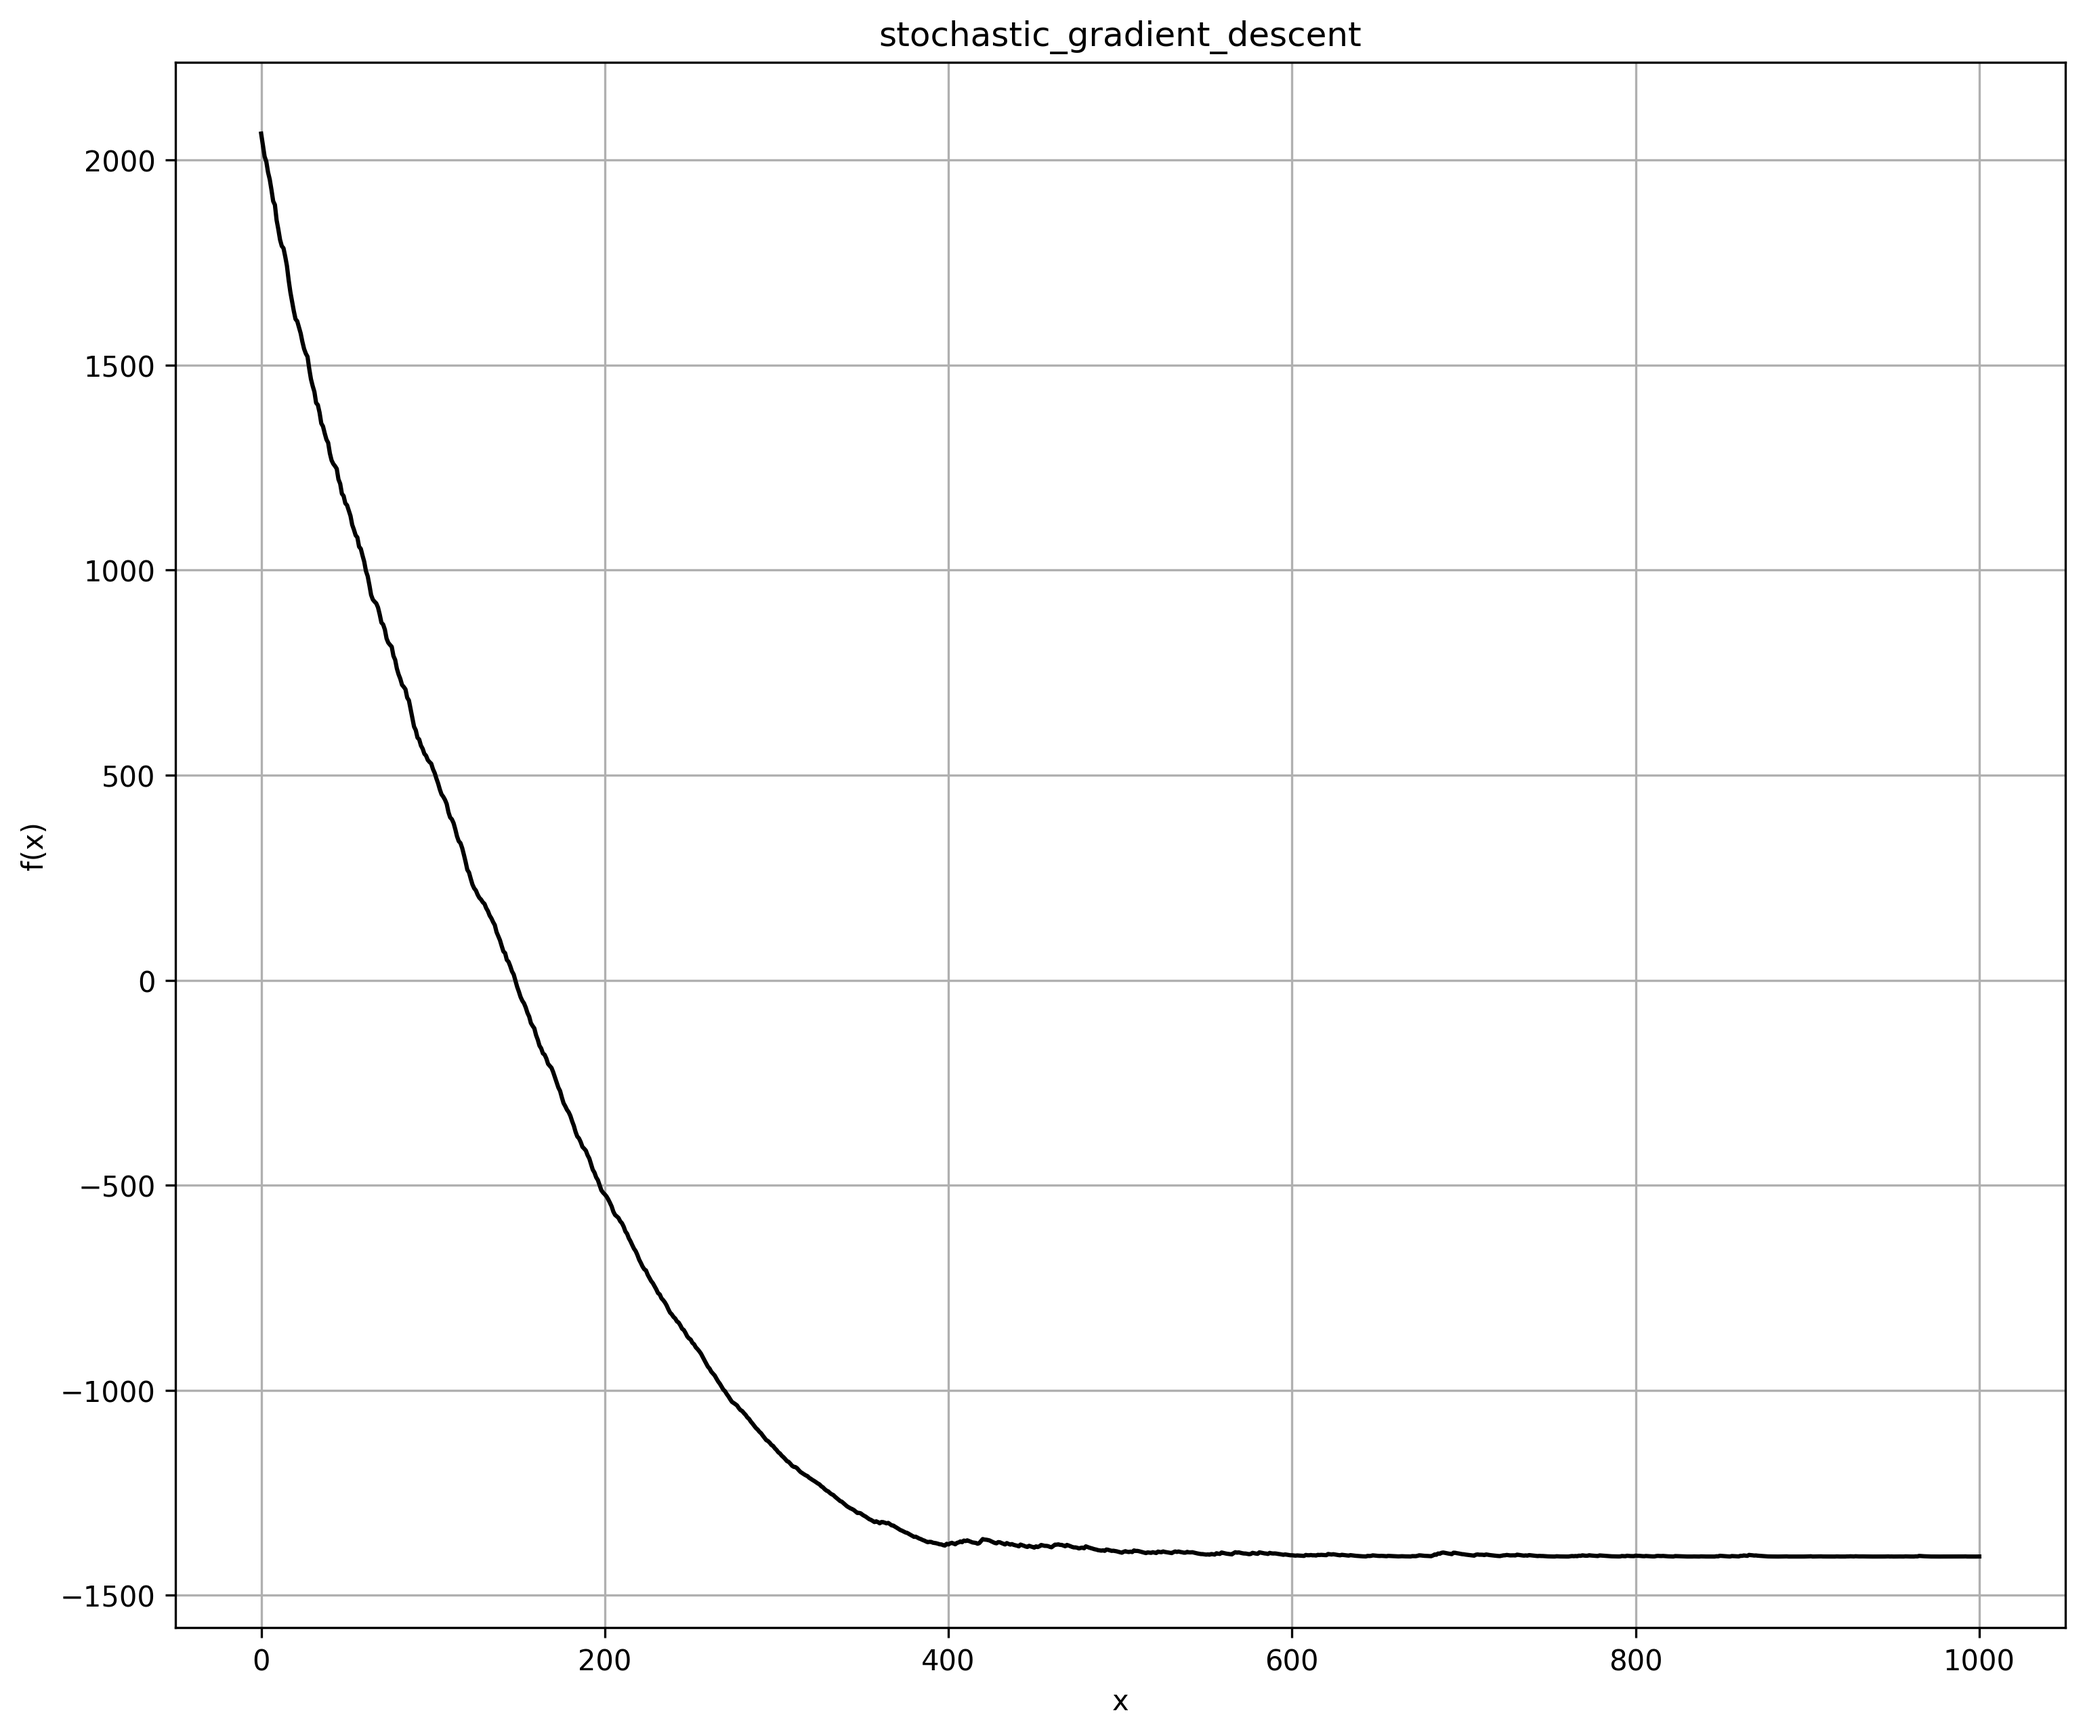
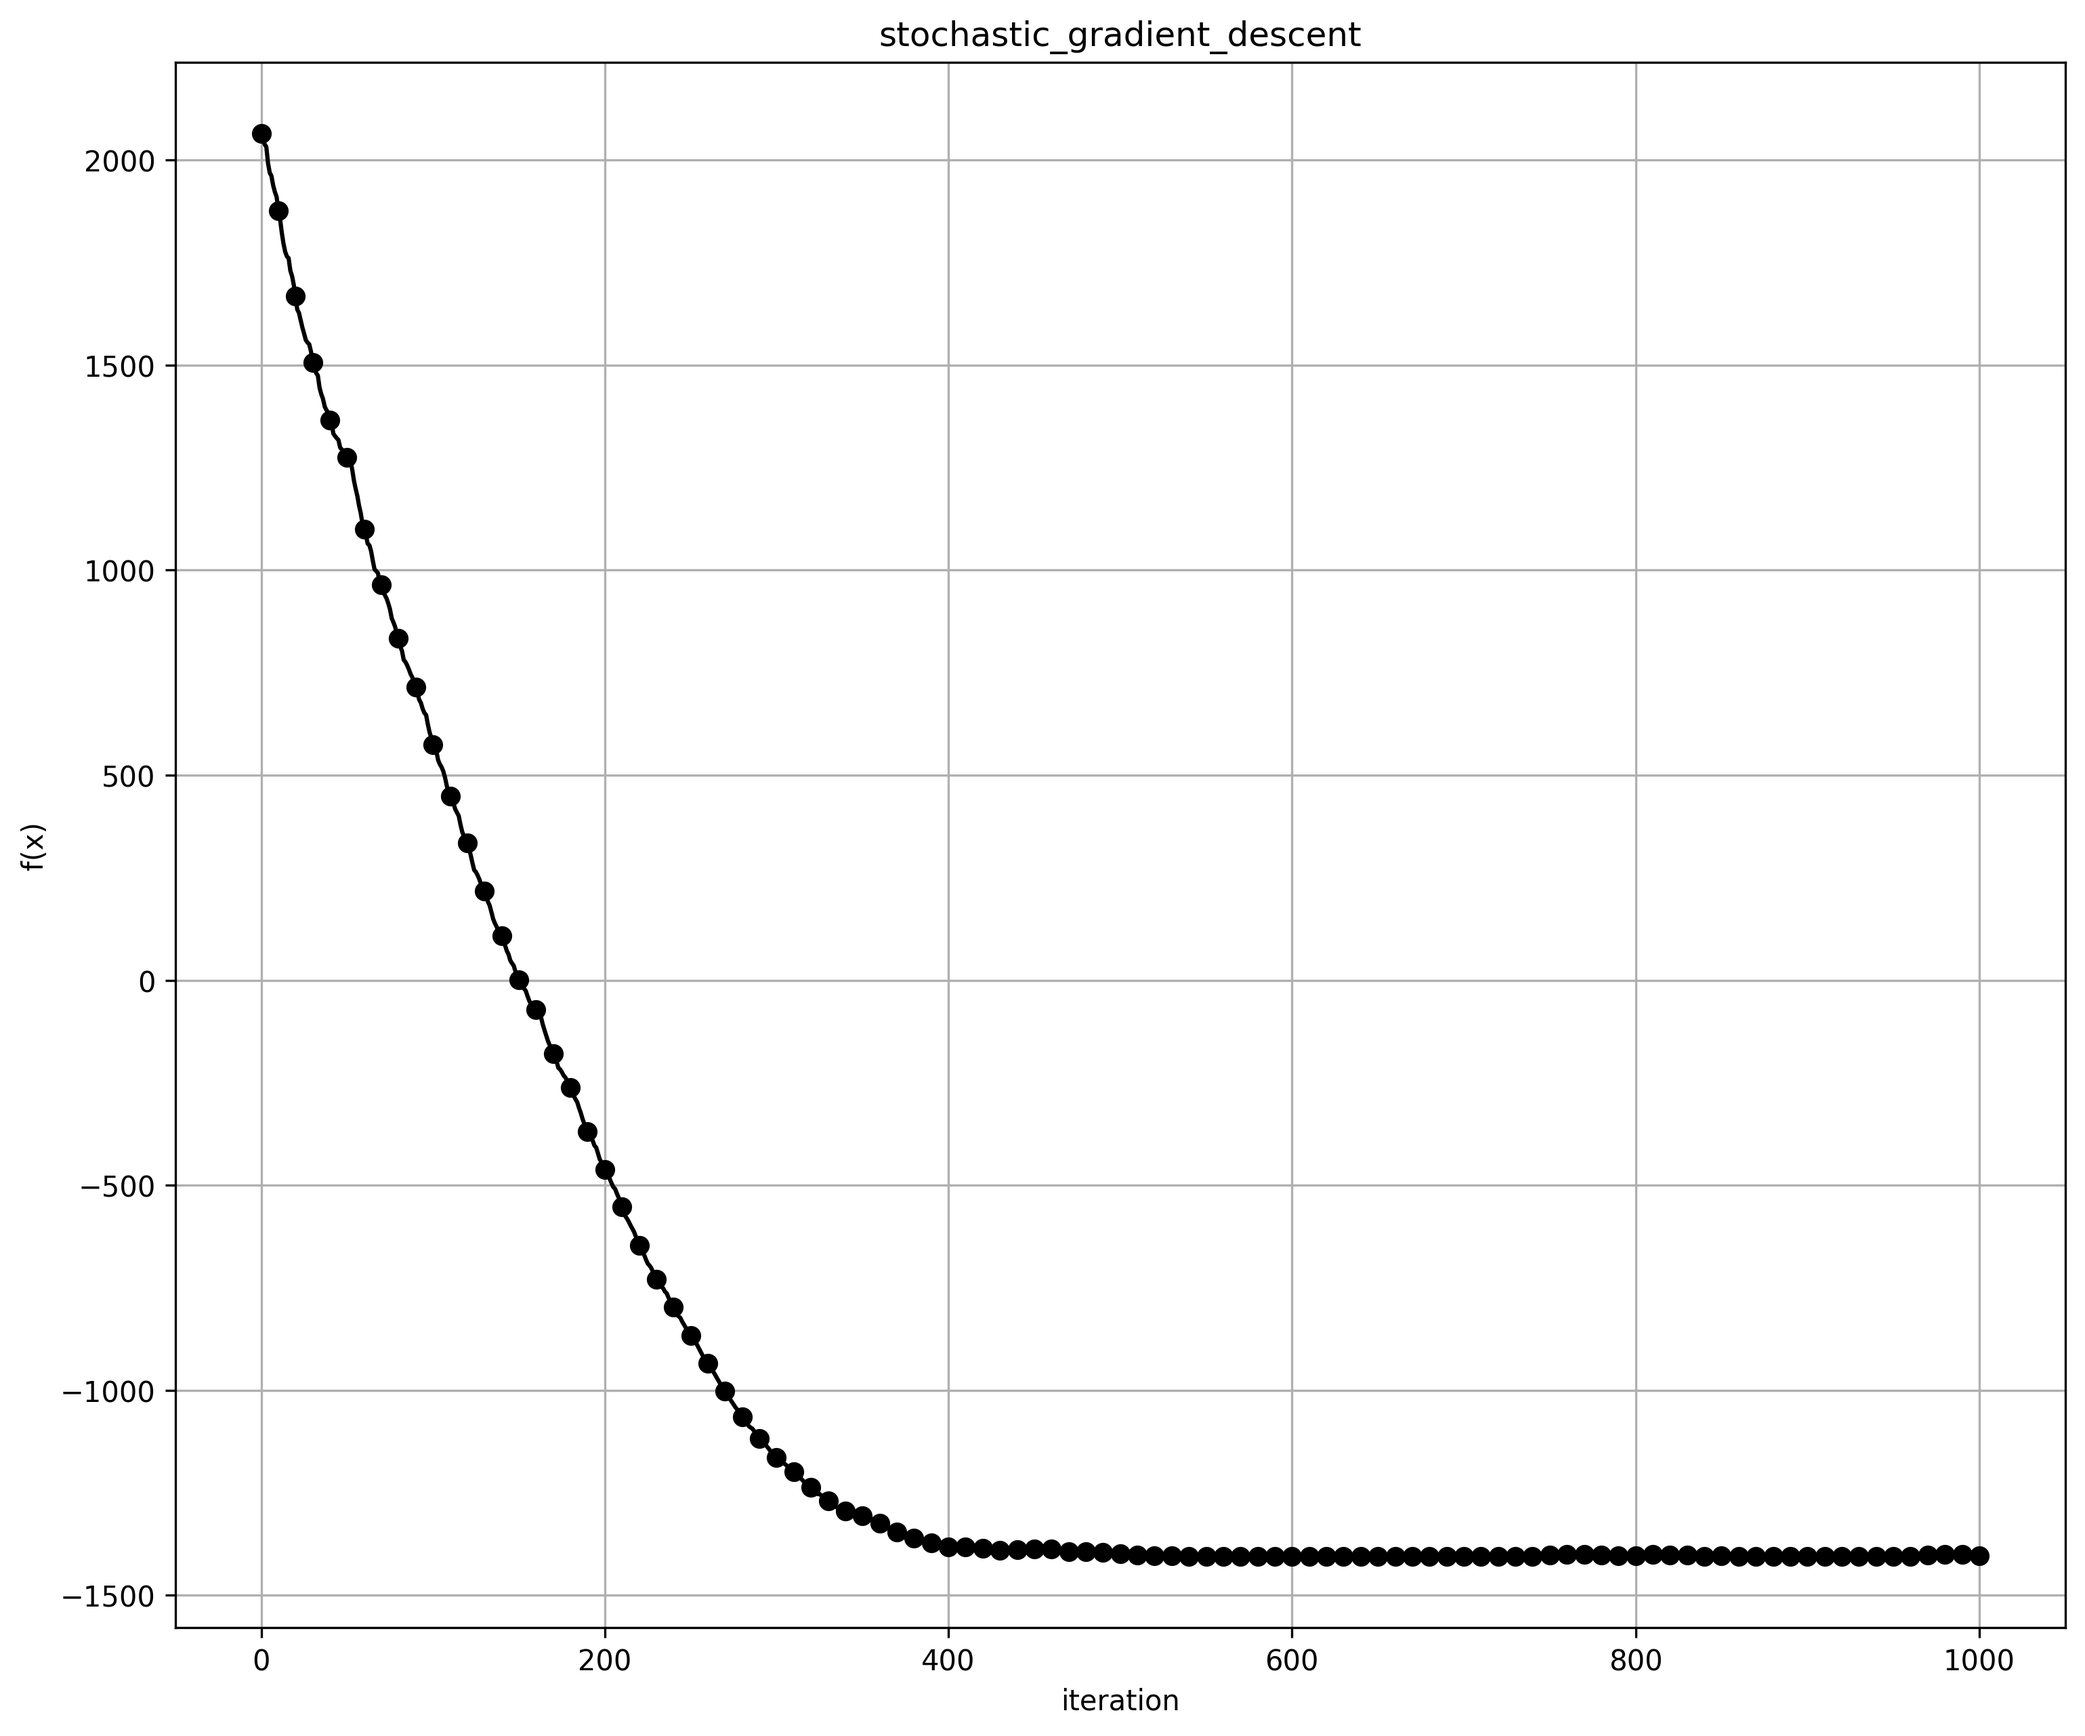
add some picures

diff --git a/ROB465_HW2/plot_descents.py b/ROB465_HW2/plot_descents.py
@@ -29,6 +29,7 @@ plt.scatter(point_gd, fgd_sequence, color='red', label='Gradient Descent', s = 3
 plt.scatter(point_nt, fnt_sequence, color='magenta', label='Newton\'s Method', s = 30)
 plt.xlabel('x')
 plt.ylabel('f(x)')
+plt.savefig('Optimization Results.png')
 plt.title('Objective Function and Optimization Results')
 plt.legend()
 
@@ -38,6 +39,7 @@ plt.plot(np.arange(0, point_gd.shape[0]), fgd_sequence, 'red', label='Gradient D
 plt.legend()
 plt.plot(np.arange(0, point_nt.shape[0]), fnt_sequence, 'magenta', label='Newton\'s Method')
 plt.title('Comparation between Newtons Method and Gradient Descent')
+plt.savefig('Comparation between Newtons Method and Gradient Descent.png')
 plt.xlabel('iterations')
 plt.ylabel('f(x)')
 plt.legend()

diff --git a/ROB465_HW2/plot_sgd.py b/ROB465_HW2/plot_sgd.py
@@ -11,8 +11,8 @@ for xi in x:
 
 print('*' * 50)
 plt.figure(figsize=(12, 10))
-plt.plot(np.arange(0, len(x)), y, label='fsum', color='black')
-plt.xlabel('x')
+plt.plot(np.arange(0, len(x)), y, label='fsum', color='black', marker = 'o', markevery = 10 )
+plt.xlabel('iteration')
 plt.ylabel('f(x)')
 plt.title('stochastic_gradient_descent')
 plt.grid()
